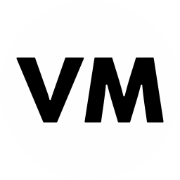
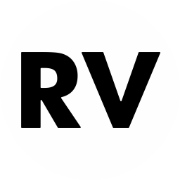
voguemine

Changed region(s): [[0.0833, 0.2778, 0.9167, 0.7222], [0.7222, 0.3333, 0.75, 0.4167]]

diff --git a/rampvalk/public/index.html b/rampvalk/public/index.html
@@ -1,14 +1,23 @@
 <!DOCTYPE html>
 <html lang="en">
   <head>
-    
+    <meta name="google-site-verification" content="uOpkMYXxetjRIAy92kthSArk9K8mJMk4cJ4eOtWEgZs" />
+    <meta name="facebook-domain-verification" content="73gsau6f1b76urel8hznyukoz1yi1e" />
     <meta charset="utf-8" />
     <meta name="viewport" content="width=device-width, initial-scale=1" />
     <meta name="theme-color" content="#000000" />
     <meta
       name="description"
-      content="Buy Premium quality products from Top Fashion Brands for Men, Women, Kids Online in India"
+      content="Rampvalk Provides The Best Online Shopping Site in India With The Best Offers For
+      Men,Women, Kids, and Accessories"
     />
+    <!-- Google Tag Manager -->
+<script>(function(w,d,s,l,i){w[l]=w[l]||[];w[l].push({'gtm.start':
+  new Date().getTime(),event:'gtm.js'});var f=d.getElementsByTagName(s)[0],
+  j=d.createElement(s),dl=l!='dataLayer'?'&l='+l:'';j.async=true;j.src=
+  'https://www.googletagmanager.com/gtm.js?id='+i+dl;f.parentNode.insertBefore(j,f);
+  })(window,document,'script','dataLayer','GTM-M389KDBK');</script>
+  <!-- End Google Tag Manager -->
     <script type="text/javascript">
       (function(l) {
         if (l.search[1] === '/' ) {
@@ -26,13 +35,9 @@
 <link rel="icon" type="image/png" sizes="32x32" href="/favicon-32x32.png">
 <link rel="icon" type="image/png" sizes="16x16" href="/favicon-16x16.png">
 <link rel="manifest" href="/site.webmanifest">
-    <title>Vogue Mine | Online Shopping for Women, Men, Kids Lifestyle</title>
+    <title>Rampvalk | Fashion Moves With Us</title>
      <!-- Google Tag Manager -->
-<script>(function(w,d,s,l,i){w[l]=w[l]||[];w[l].push({'gtm.start':
-  new Date().getTime(),event:'gtm.js'});var f=d.getElementsByTagName(s)[0],
-  j=d.createElement(s),dl=l!='dataLayer'?'&l='+l:'';j.async=true;j.src=
-  'https://www.googletagmanager.com/gtm.js?id='+i+dl;f.parentNode.insertBefore(j,f);
-  })(window,document,'script','dataLayer','GTM-WFSMFS6');</script>
+
     <!-- Meta Pixel Code -->
 <script>
   !function(f,b,e,v,n,t,s)
@@ -43,17 +48,19 @@
   t.src=v;s=b.getElementsByTagName(e)[0];
   s.parentNode.insertBefore(t,s)}(window, document,'script',
   'https://connect.facebook.net/en_US/fbevents.js');
-  fbq('init', '650507833848857');
+  fbq('init', '434042949130913');
   fbq('track', 'PageView');
   </script>
   <noscript><img height="1" width="1" style="display:none"
-  src="https://www.facebook.com/tr?id=650507833848857&ev=PageView&noscript=1"
+  src="https://www.facebook.com/tr?id=434042949130913&ev=PageView&noscript=1"
   /></noscript>
   <!-- End Meta Pixel Code -->
   
   
   </head>
   <body style="background-color: rgb(244, 244, 244);">
+    <noscript><iframe src="https://www.googletagmanager.com/ns.html?id=GTM-M389KDBK"
+      height="0" width="0" style="display:none;visibility:hidden"></iframe></noscript>
     <noscript>You need to enable JavaScript to run this app.</noscript>
     <div id="root"></div>
     <!--

diff --git a/rampvalk/src/pages/policies/Policies.js b/rampvalk/src/pages/policies/Policies.js
@@ -95,7 +95,7 @@ const Policies = () => {
 <p style={{fontWeight:600}}>7. Contact Information
 </p>
 <p>If you have any questions about these terms and conditions,
-please contact us at <Link to="mailto:info@voguemine.com">info@voguemine.com</Link> and <Link to="tel:+919811363784">+91 9811363784</Link></p>
+please contact us at <Link to="mailto:rampvalk@gmail.com">rampvalk@gmail.com</Link> and <Link to="tel:+919811363784">+91 9811363784</Link></p>
  </p>
       </div>
       :
@@ -114,7 +114,7 @@ When you browse our store, we also automatically receive your computer’s inter
 </p>
 <p>When you provide us with personal information to complete a transaction, verify your credit card, place an order, arrange for a delivery, we imply that you consent to our collecting it and using it for that specific reason only.
 If we ask for your personal information for a secondary reason, like marketing, we will either ask you directly for your expressed consent, or provide you with an opportunity to say no.</p>
-<p>If after you opt-in, you change your mind, you may withdraw your consent for us to contact you, for the continued collection, use or disclosure of your information, at any time, by Contacting us at <Link to="mailto:info@voguemine.com">info@voguemine.com</Link></p>
+<p>If after you opt-in, you change your mind, you may withdraw your consent for us to contact you, for the continued collection, use or disclosure of your information, at any time, by Contacting us at <Link to="mailto:rampvalk@gmail.com">rampvalk@gmail.com</Link></p>
 <p style={{fontWeight:600}}>SECTION 3 – DISCLOSURE
 
 </p>
@@ -165,7 +165,7 @@ _secure_session_id, unique token, sessional storefront digest, unique token, ind
 
 </p>
 <p>If you would like to: access, correct, amend or delete any personal information we have about you, register a complaint, or simply want more information contact our Privacy Compliance Officer at
-<Link to="mailto:info@voguemine.com">info@voguemine.com</Link>
+<Link to="mailto:rampvalk@gmail.com"> rampvalk@gmail.com</Link>
 
 </p>
  </p>

diff --git a/rampvalk/src/pages/homeMain/HomeMain.jsx b/rampvalk/src/pages/homeMain/HomeMain.jsx
@@ -84,7 +84,7 @@ const HomeMain = () => {
   return (
     <div className='homeMain'>
       <div className="hero-section">
-      <img src={home_benner} alt="" />
+      <img src="https://res.cloudinary.com/keshvendra/image/upload/v1713512957/a51_aqkymn.jpg" alt="" />
       </div>
       <div className="categories">
         <ScrollCarousel
@@ -94,19 +94,19 @@ const HomeMain = () => {
         >
           <Link to="/men">
             <div className="cate">
-              <img src="https://res.cloudinary.com/keshvendra/image/upload/v1713558263/01_hwvjvv.jpg" alt="" />
+              <img src="https://res.cloudinary.com/keshvendra/image/upload/v1713516229/0006_u5fiek.jpg" alt="" />
             </div>
           </Link><Link to="/women">
             <div className="cate">
-              <img src="https://res.cloudinary.com/keshvendra/image/upload/v1713558263/02_v6acp2.jpg" alt="" />
+              <img src="https://res.cloudinary.com/keshvendra/image/upload/v1713516229/0007_bld8nf.jpg" alt="" />
             </div>
           </Link><Link to="/kids">
             <div className="cate">
-              <img src="https://res.cloudinary.com/keshvendra/image/upload/v1713558265/03_dncxwq.jpg" alt="" />
+              <img src="https://res.cloudinary.com/keshvendra/image/upload/v1713516229/0008_w3hlql.jpg" alt="" />
             </div>
           </Link><Link to="/accessories">
             <div className="cate">
-              <img src="https://res.cloudinary.com/keshvendra/image/upload/v1713558266/05_jatmmj.jpg" alt="" />
+              <img src="https://res.cloudinary.com/keshvendra/image/upload/v1713516229/00009_kwerwy.jpg" alt="" />
             </div>
           </Link>
 

diff --git a/rampvalk/src/pages/blogs/SingleBlog.jsx b/rampvalk/src/pages/blogs/SingleBlog.jsx
@@ -16,23 +16,23 @@ const SingleBlog = () => {
       dispatch(getABlog(handle))
     },[handle])
     useEffect(() => {
-      if (singleBlogState?.metaTitle!=="" || singleBlogState?.metaTitle!==undefined) {
-          document.title = singleBlogState?.metaTitle;
+      if (singleBlogState?.metaTitle1!=="" || singleBlogState?.metaTitle1!==undefined) {
+          document.title = singleBlogState?.metaTitle1;
       }
       else{
         document.title =`${singleBlogState?.title}`;
       }
   
-  }, [singleBlogState?.metaTitle]);
+  }, [singleBlogState?.metaTitle1]);
   useEffect(() => {
-    if (singleBlogState?.metaDesc!=="" || singleBlogState?.metaDesc!==undefined) {
-        document.querySelector('meta[name="description"]').setAttribute('content',singleBlogState?.metaDesc);
+    if (singleBlogState?.metaDesc1!=="" || singleBlogState?.metaDesc1!==undefined) {
+        document.querySelector('meta[name="description"]').setAttribute('content',singleBlogState?.metaDesc1);
     }
     else{
       document.querySelector('meta[name="description"]').setAttribute('content',singleBlogState?.description);
     }
   
-  }, [singleBlogState?.metaDesc]);  
+  }, [singleBlogState?.metaDesc1]);  
   return (
     <div className='margin-section' style={{marginTop:'100px'}}>
       <p className="section-heading">{singleBlogState?.title}</p>

diff --git a/rampvalk/src/pages/singleproduct/SingleProduct.jsx b/rampvalk/src/pages/singleproduct/SingleProduct.jsx
@@ -178,23 +178,23 @@ const [imageIndex, setImageIndex] = useState(0);
     }
   }
   useEffect(() => {
-    if (singleProductState?.metaTitle!=="" || singleProductState?.metaTitle!==undefined) {
-        document.title = singleProductState?.metaTitle;
+    if (singleProductState?.metaTitle1!=="" || singleProductState?.metaTitle1!==undefined) {
+        document.title = singleProductState?.metaTitle1;
     }
     else{
       document.title =`${singleProductState?.title}`;
     }
 
-}, [singleProductState?.metaTitle]);
+}, [singleProductState?.metaTitle1]);
 useEffect(() => {
-  if (singleProductState?.metaDesc!=="" || singleProductState?.metaDesc!==undefined) {
-      document.querySelector('meta[name="description"]').setAttribute('content',singleProductState?.metaDesc);
+  if (singleProductState?.metaDesc1!=="" || singleProductState?.metaDesc1!==undefined) {
+      document.querySelector('meta[name="description"]').setAttribute('content',singleProductState?.metaDesc1);
   }
   else{
     document.querySelector('meta[name="description"]').setAttribute('content',singleProductState?.description);
   }
 
-}, [singleProductState?.metaDesc]);
+}, [singleProductState?.metaDesc1]);
 
 const commentPost=()=>{
   if(name==="" || email ==="" || msg===""){

diff --git a/rampvalk/src/components/footer/Footer.jsx b/rampvalk/src/components/footer/Footer.jsx
@@ -52,8 +52,8 @@ const Footer = () => {
         <Col className=''>
         <h2>Contact Information</h2>
         <ul>
-            <li>Phone: <Link to="tel:+919899202079">+91 9811363784</Link></li>
-            <li>Email: <Link to="mailto:customersupport@rampvalk.com">customersupport@rampvalk.com</Link></li>
+            <li>Phone: <Link to="tel:+919811363784">+91 9811363784</Link></li>
+            <li>Email: <Link to="mailto:rampvalk@gmail.com">rampvalk@gmail.com</Link></li>
             <li>Address: H-119, Sector 63, Noida, U.P, 201301</li>
             <ul>
                 <li><Link to="https://www.instagram.com/voguemine_fashion/"><InstagramIcon/></Link></li>

diff --git a/rampvalk/src/pages/contact/Contact.js b/rampvalk/src/pages/contact/Contact.js
@@ -33,7 +33,7 @@ const Contact = () => {
         <div className="contact-right">
                 <p>Contact Us</p>
                 <div><LocationCityIcon/><p>H-119, Sector 63, Noida, U.P, 201301, India</p></div>
-                <div><EmailIcon/><p>customersupport@rampvalk.com</p></div>
+                <div><EmailIcon/><p>rampvalk@gmail.com</p></div>
                 <div><PermPhoneMsgIcon/><p>+91 9811363784</p></div>
         </div>
       </div>

diff --git a/rampvalk/src/pages/blogs/Blogs.jsx b/rampvalk/src/pages/blogs/Blogs.jsx
@@ -24,7 +24,7 @@ const Blog = () => {
   return (
     <div className='margin-section' style={{marginTop:'100px'}}>
       <p className="section-heading">Our Blogs</p>
-      <div className="blogs">
+      {/* <div className="blogs">
         {
          blogs?.map((item,index)=>{
             return(
@@ -46,7 +46,7 @@ const Blog = () => {
         
 
 
-      </div>
+      </div> */}
       
     </div>
 

diff --git a/rampvalk/src/pages/categoryPage/About.jsx b/rampvalk/src/pages/categoryPage/About.jsx
@@ -47,9 +47,9 @@ const About = () => {
         </div>
       </div>
 
-<div className="c-banner" style={{marginBottom:'50px'}}>
+{/* <div className="c-banner" style={{marginBottom:'50px'}}>
   <img src="https://res.cloudinary.com/keshvendra/image/upload/v1713514549/00005_qdvxte.jpg" alt="" style={{width:'100%'}}/>
-</div>
+</div> */}
 
       <div className="ourteam">
     <h2>Meet Our Team</h2>

diff --git a/rampvalk/public/404.html b/rampvalk/public/404.html
@@ -2,7 +2,7 @@
 <html>
   <head>
     <meta charset="utf-8">
-    <title>VOGUEMINE- THE MARQUE AT YOUR PRICE</title>
+    <title>RAMPVALK- FASHION MOVES WITH US</title>
     <script type="text/javascript">
     
       var pathSegmentsToKeep = 1;

diff --git a/frontend/src/App.css b/frontend/src/App.css
@@ -3,6 +3,7 @@
     padding: 0;
     box-sizing: border-box;
     scroll-behavior: smooth;
+    user-select:none;
 }
 .category-banner{
     max-width: 100%;

diff --git a/rampvalk/src/App.css b/rampvalk/src/App.css
@@ -3,6 +3,7 @@
     padding: 0;
     box-sizing: border-box;
     scroll-behavior: smooth;
+    user-select:none;
 }
 .category-banner{
     max-width: 100%;
